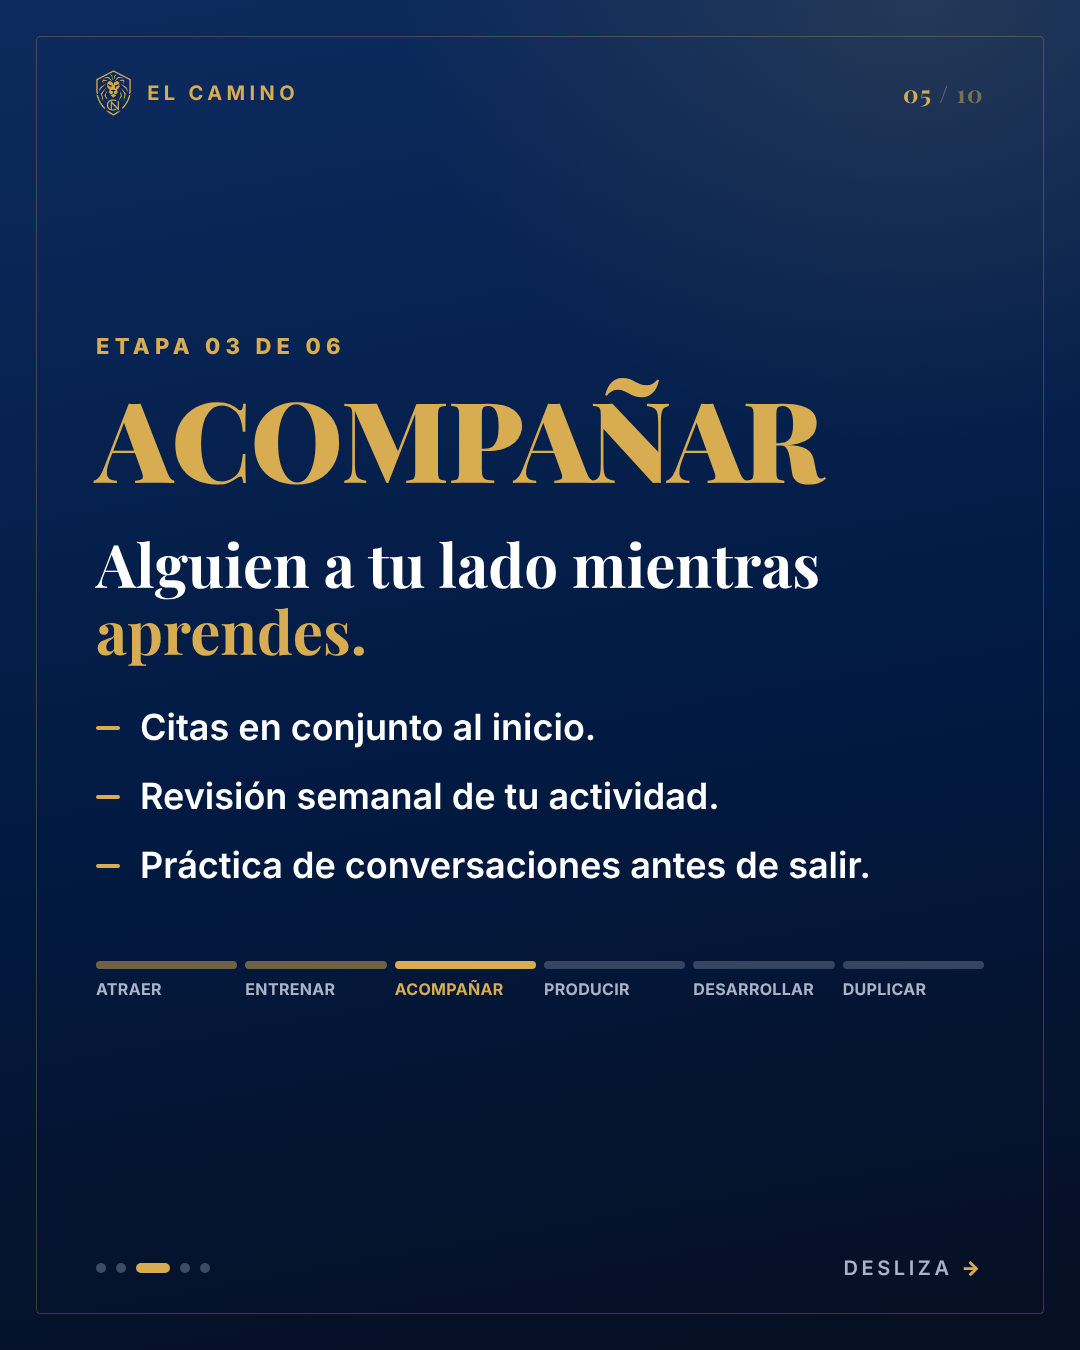
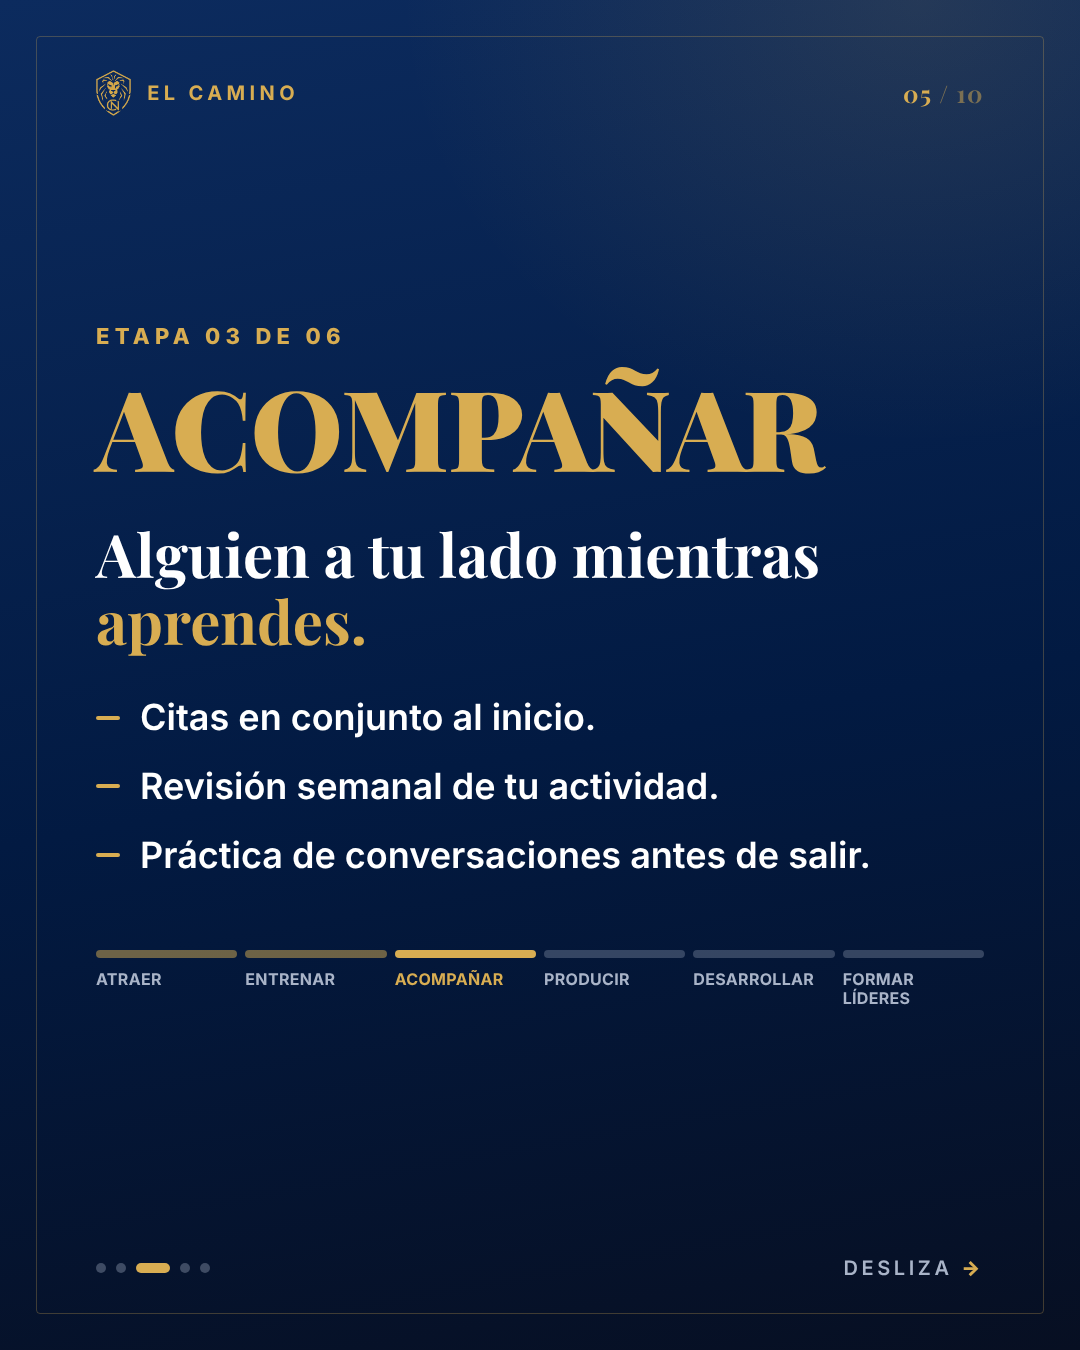
El camino: FORMAR LÍDERES, aviso legal, frase de experiencia y carpeta final con QA
Claude-Session: https://claude.ai/code/session_01NSoqenSFphvWtWUo7mfwVf

Changed region(s): [[0.0917, 0.2489, 0.7944, 0.6533], [0.0917, 0.6844, 0.9167, 0.7467]]

diff --git a/carrusel-el-camino/slides.html b/carrusel-el-camino/slides.html
@@ -14,13 +14,15 @@
 .smap{display:grid;grid-template-columns:repeat(6,1fr);gap:8px}
 .smap i{display:block;height:8px;border-radius:4px;background:rgba(169,180,200,.3)}
 .light .smap i{background:rgba(10,23,48,.14)}
-.smap span{display:block;margin-top:12px;font:700 16px/1 var(--sans);letter-spacing:.02em;color:var(--muted)}
+.smap span{display:block;margin-top:12px;font:700 16px/1.15 var(--sans);letter-spacing:.02em;color:var(--muted)}
 .light .smap span{color:var(--inkMuted)}
 .smap .done i{background:rgba(216,173,82,.5)}
 .smap .cur i{background:var(--gold)}
 .light .smap .cur i{background:var(--goldInk)}
 .smap .cur span{color:var(--gold)}
 .light .smap .cur span{color:var(--goldInk)}
+.grid6 .g span{display:block;line-height:1.1}
+.legal{font:600 24px/1.35 var(--sans);letter-spacing:.02em;color:var(--muted)}
 </style>
 </head>
 <body>
@@ -35,46 +37,46 @@
 <p class="h2 mt24">En el post anterior hablamos del problema:</p>
 <p class="body mt32">Muchos agentes nuevos se quedan sin dirección cuando se termina su mercado natural.</p>
 <div class="highlight mt56"><p class="kicker">Hoy</p><p class="h1 mt16">Cómo se vería un <span class="gold">CAMINO.</span></p></div>
-<div class="mt56"><div class="smap"><div class=""><i></i><span>ATRAER</span></div><div class=""><i></i><span>ENTRENAR</span></div><div class=""><i></i><span>ACOMPAÑAR</span></div><div class=""><i></i><span>PRODUCIR</span></div><div class=""><i></i><span>DESARROLLAR</span></div><div class=""><i></i><span>DUPLICAR</span></div></div></div></div><div class="ftr"><div class="dots"><i class="on"></i><i></i><i></i><i></i><i></i></div><span class="swipe">Desliza <b>→</b></span></div></section>
+<div class="mt56"><div class="smap"><div class=""><i></i><span>ATRAER</span></div><div class=""><i></i><span>ENTRENAR</span></div><div class=""><i></i><span>ACOMPAÑAR</span></div><div class=""><i></i><span>PRODUCIR</span></div><div class=""><i></i><span>DESARROLLAR</span></div><div class=""><i></i><span>FORMAR LÍDERES</span></div></div></div></div><div class="ftr"><div class="dots"><i class="on"></i><i></i><i></i><i></i><i></i></div><span class="swipe">Desliza <b>→</b></span></div></section>
 <section class="slide stage" id="c03"><div class="frame"></div><div class="hdr"><span class="mark"><img src="../_marca/assets/caicedo-shield.png" alt="">El camino</span><span class="num">03<span> / 10</span></span></div>
 <div class="content"><p class="kicker">Etapa 01 de 06</p>
 <p class="sname mt24">ATRAER</p>
 <p class="h2 mt40">Atraer con expectativas <span class='gold'>claras.</span></p>
 <div class="pts mt40"><p>Qué implica realmente el trabajo.</p><p>Cuánto toma aprenderlo.</p><p>Qué se espera de ti, y qué puedes esperar de tu líder.</p></div>
-<div class="mt72"><div class="smap"><div class="cur"><i></i><span>ATRAER</span></div><div class=""><i></i><span>ENTRENAR</span></div><div class=""><i></i><span>ACOMPAÑAR</span></div><div class=""><i></i><span>PRODUCIR</span></div><div class=""><i></i><span>DESARROLLAR</span></div><div class=""><i></i><span>DUPLICAR</span></div></div></div></div><div class="ftr"><div class="dots"><i></i><i class="on"></i><i></i><i></i><i></i></div><span class="swipe">Desliza <b>→</b></span></div></section>
+<div class="mt72"><div class="smap"><div class="cur"><i></i><span>ATRAER</span></div><div class=""><i></i><span>ENTRENAR</span></div><div class=""><i></i><span>ACOMPAÑAR</span></div><div class=""><i></i><span>PRODUCIR</span></div><div class=""><i></i><span>DESARROLLAR</span></div><div class=""><i></i><span>FORMAR LÍDERES</span></div></div></div></div><div class="ftr"><div class="dots"><i></i><i class="on"></i><i></i><i></i><i></i></div><span class="swipe">Desliza <b>→</b></span></div></section>
 <section class="slide stage light" id="c04"><div class="frame"></div><div class="hdr"><span class="mark"><img src="../_marca/assets/caicedo-shield.png" alt="">El camino</span><span class="num">04<span> / 10</span></span></div>
 <div class="content"><p class="kicker">Etapa 02 de 06</p>
 <p class="sname mt24">ENTRENAR</p>
 <p class="h2 mt40">Habilidades, no solo <span class='gold'>productos.</span></p>
 <div class="pts mt40"><p>Prospectar y abrir conversaciones.</p><p>Conseguir citas y presentar.</p><p>Manejar objeciones y dar seguimiento.</p></div>
-<div class="mt72"><div class="smap"><div class="done"><i></i><span>ATRAER</span></div><div class="cur"><i></i><span>ENTRENAR</span></div><div class=""><i></i><span>ACOMPAÑAR</span></div><div class=""><i></i><span>PRODUCIR</span></div><div class=""><i></i><span>DESARROLLAR</span></div><div class=""><i></i><span>DUPLICAR</span></div></div></div></div><div class="ftr"><div class="dots"><i></i><i class="on"></i><i></i><i></i><i></i></div><span class="swipe">Desliza <b>→</b></span></div></section>
+<div class="mt72"><div class="smap"><div class="done"><i></i><span>ATRAER</span></div><div class="cur"><i></i><span>ENTRENAR</span></div><div class=""><i></i><span>ACOMPAÑAR</span></div><div class=""><i></i><span>PRODUCIR</span></div><div class=""><i></i><span>DESARROLLAR</span></div><div class=""><i></i><span>FORMAR LÍDERES</span></div></div></div></div><div class="ftr"><div class="dots"><i></i><i class="on"></i><i></i><i></i><i></i></div><span class="swipe">Desliza <b>→</b></span></div></section>
 <section class="slide stage" id="c05"><div class="frame"></div><div class="hdr"><span class="mark"><img src="../_marca/assets/caicedo-shield.png" alt="">El camino</span><span class="num">05<span> / 10</span></span></div>
 <div class="content"><p class="kicker">Etapa 03 de 06</p>
 <p class="sname mt24">ACOMPAÑAR</p>
 <p class="h2 mt40">Alguien a tu lado mientras <span class='gold'>aprendes.</span></p>
 <div class="pts mt40"><p>Citas en conjunto al inicio.</p><p>Revisión semanal de tu actividad.</p><p>Práctica de conversaciones antes de salir.</p></div>
-<div class="mt72"><div class="smap"><div class="done"><i></i><span>ATRAER</span></div><div class="done"><i></i><span>ENTRENAR</span></div><div class="cur"><i></i><span>ACOMPAÑAR</span></div><div class=""><i></i><span>PRODUCIR</span></div><div class=""><i></i><span>DESARROLLAR</span></div><div class=""><i></i><span>DUPLICAR</span></div></div></div></div><div class="ftr"><div class="dots"><i></i><i></i><i class="on"></i><i></i><i></i></div><span class="swipe">Desliza <b>→</b></span></div></section>
+<div class="mt72"><div class="smap"><div class="done"><i></i><span>ATRAER</span></div><div class="done"><i></i><span>ENTRENAR</span></div><div class="cur"><i></i><span>ACOMPAÑAR</span></div><div class=""><i></i><span>PRODUCIR</span></div><div class=""><i></i><span>DESARROLLAR</span></div><div class=""><i></i><span>FORMAR LÍDERES</span></div></div></div></div><div class="ftr"><div class="dots"><i></i><i></i><i class="on"></i><i></i><i></i></div><span class="swipe">Desliza <b>→</b></span></div></section>
 <section class="slide stage light" id="c06"><div class="frame"></div><div class="hdr"><span class="mark"><img src="../_marca/assets/caicedo-shield.png" alt="">El camino</span><span class="num">06<span> / 10</span></span></div>
 <div class="content"><p class="kicker">Etapa 04 de 06</p>
 <p class="sname mt24">PRODUCIR</p>
 <p class="h2 mt40">Primero la actividad. Después los <span class='gold'>resultados.</span></p>
 <div class="pts mt40"><p>Metas de actividad diarias y semanales.</p><p>Conversaciones, citas y presentaciones medidas.</p><p>Ajustes basados en datos, no en emociones.</p></div>
-<div class="mt72"><div class="smap"><div class="done"><i></i><span>ATRAER</span></div><div class="done"><i></i><span>ENTRENAR</span></div><div class="done"><i></i><span>ACOMPAÑAR</span></div><div class="cur"><i></i><span>PRODUCIR</span></div><div class=""><i></i><span>DESARROLLAR</span></div><div class=""><i></i><span>DUPLICAR</span></div></div></div></div><div class="ftr"><div class="dots"><i></i><i></i><i class="on"></i><i></i><i></i></div><span class="swipe">Desliza <b>→</b></span></div></section>
+<div class="mt72"><div class="smap"><div class="done"><i></i><span>ATRAER</span></div><div class="done"><i></i><span>ENTRENAR</span></div><div class="done"><i></i><span>ACOMPAÑAR</span></div><div class="cur"><i></i><span>PRODUCIR</span></div><div class=""><i></i><span>DESARROLLAR</span></div><div class=""><i></i><span>FORMAR LÍDERES</span></div></div></div></div><div class="ftr"><div class="dots"><i></i><i></i><i class="on"></i><i></i><i></i></div><span class="swipe">Desliza <b>→</b></span></div></section>
 <section class="slide stage" id="c07"><div class="frame"></div><div class="hdr"><span class="mark"><img src="../_marca/assets/caicedo-shield.png" alt="">El camino</span><span class="num">07<span> / 10</span></span></div>
 <div class="content"><p class="kicker">Etapa 05 de 06</p>
 <p class="sname mt24">DESARROLLAR</p>
 <p class="h2 mt40">De vender a construir un <span class='gold'>negocio.</span></p>
 <div class="pts mt40"><p>Mercados más allá de familia y amigos.</p><p>Un sistema para pedir referidos.</p><p>Hábitos, organización y tecnología.</p></div>
-<div class="mt72"><div class="smap"><div class="done"><i></i><span>ATRAER</span></div><div class="done"><i></i><span>ENTRENAR</span></div><div class="done"><i></i><span>ACOMPAÑAR</span></div><div class="done"><i></i><span>PRODUCIR</span></div><div class="cur"><i></i><span>DESARROLLAR</span></div><div class=""><i></i><span>DUPLICAR</span></div></div></div></div><div class="ftr"><div class="dots"><i></i><i></i><i></i><i class="on"></i><i></i></div><span class="swipe">Desliza <b>→</b></span></div></section>
+<div class="mt72"><div class="smap"><div class="done"><i></i><span>ATRAER</span></div><div class="done"><i></i><span>ENTRENAR</span></div><div class="done"><i></i><span>ACOMPAÑAR</span></div><div class="done"><i></i><span>PRODUCIR</span></div><div class="cur"><i></i><span>DESARROLLAR</span></div><div class=""><i></i><span>FORMAR LÍDERES</span></div></div></div></div><div class="ftr"><div class="dots"><i></i><i></i><i></i><i class="on"></i><i></i></div><span class="swipe">Desliza <b>→</b></span></div></section>
 <section class="slide stage light" id="c08"><div class="frame"></div><div class="hdr"><span class="mark"><img src="../_marca/assets/caicedo-shield.png" alt="">El camino</span><span class="num">08<span> / 10</span></span></div>
 <div class="content"><p class="kicker">Etapa 06 de 06</p>
-<p class="sname mt24">DUPLICAR</p>
-<p class="h2 mt40">Cuando puedes enseñar lo que <span class='gold'>aprendiste.</span></p>
-<div class="pts mt40"><p>Tu proceso se vuelve enseñable.</p><p>Acompañas a otros como te acompañaron.</p><p>Ahí comienza el liderazgo.</p></div>
-<div class="mt72"><div class="smap"><div class="done"><i></i><span>ATRAER</span></div><div class="done"><i></i><span>ENTRENAR</span></div><div class="done"><i></i><span>ACOMPAÑAR</span></div><div class="done"><i></i><span>PRODUCIR</span></div><div class="done"><i></i><span>DESARROLLAR</span></div><div class="cur"><i></i><span>DUPLICAR</span></div></div></div></div><div class="ftr"><div class="dots"><i></i><i></i><i></i><i class="on"></i><i></i></div><span class="swipe">Desliza <b>→</b></span></div></section>
+<p class="sname mt24" style="line-height:1.1">FORMAR<br>LÍDERES</p>
+<p class="h2 mt40">Liderar es desarrollar <span class='gold'>a otros.</span></p>
+<div class="pts mt40"><p>Enseñar con el ejemplo, no con promesas.</p><p>Acompañar a nuevos agentes en su proceso.</p><p>Medir el éxito por el crecimiento de tu gente.</p></div>
+<div class="mt72"><div class="smap"><div class="done"><i></i><span>ATRAER</span></div><div class="done"><i></i><span>ENTRENAR</span></div><div class="done"><i></i><span>ACOMPAÑAR</span></div><div class="done"><i></i><span>PRODUCIR</span></div><div class="done"><i></i><span>DESARROLLAR</span></div><div class="cur"><i></i><span>FORMAR LÍDERES</span></div></div></div></div><div class="ftr"><div class="dots"><i></i><i></i><i></i><i class="on"></i><i></i></div><span class="swipe">Desliza <b>→</b></span></div></section>
 <section class="slide s8" id="c09"><div class="frame"></div><div class="hdr"><span class="mark"><img src="../_marca/assets/caicedo-shield.png" alt="">Resumen</span><span class="num">09<span> / 10</span></span></div>
 <div class="content"><p class="h1">Ninguna etapa <span class="gold">se salta.</span></p>
-<div class="grid6 mt56"><div class="g"><small>01</small><span>ATRAER</span></div><div class="g"><small>02</small><span>ENTRENAR</span></div><div class="g"><small>03</small><span>ACOMPAÑAR</span></div><div class="g"><small>04</small><span>PRODUCIR</span></div><div class="g"><small>05</small><span>DESARROLLAR</span></div><div class="g"><small>06</small><span>DUPLICAR</span></div></div>
+<div class="grid6 mt56"><div class="g"><small>01</small><span>ATRAER</span></div><div class="g"><small>02</small><span>ENTRENAR</span></div><div class="g"><small>03</small><span>ACOMPAÑAR</span></div><div class="g"><small>04</small><span>PRODUCIR</span></div><div class="g"><small>05</small><span>DESARROLLAR</span></div><div class="g"><small>06</small><span>FORMAR LÍDERES</span></div></div>
 <p class="lead mt72">El orden importa.<br><b class="gold">El acompañamiento, también.</b></p></div><div class="ftr"><div class="dots"><i></i><i></i><i></i><i></i><i class="on"></i></div><span class="swipe">Desliza <b>→</b></span></div></section>
 <section class="slide s10" id="c10"><div class="frame"></div><div class="hdr"><span class="mark"><img src="../_marca/assets/caicedo-shield.png" alt="">Conversemos</span><span class="num">10<span> / 10</span></span></div>
 <div class="content"><p class="top">LA LICENCIA ABRE LA PUERTA.</p>
@@ -83,6 +85,7 @@
 <p class="q mt16">¿En qué etapa estás hoy? Escríbela en los comentarios.</p>
 <p class="read mt24">Te leo.</p></div>
 <div class="sig mt56"><div class="logos"><img src="../_marca/assets/caicedo-shield.png" alt="Caicedo Network"><span class="sep"></span><img src="../_marca/assets/izzy-shield.png" alt="IZZY" style="height:72px"></div><span class="sep"></span><div><p class="n">Moisés Caicedo</p><p class="o mt8">Caicedo Network · IZZY</p></div></div>
+<p class="legal mt40">Oportunidad independiente. No es empleo. Sin garantía de ingresos.</p>
 </div><div class="ftr"><div class="dots"><i></i><i></i><i></i><i></i><i class="on"></i></div><span></span></div></section>
 </body>
 </html>
